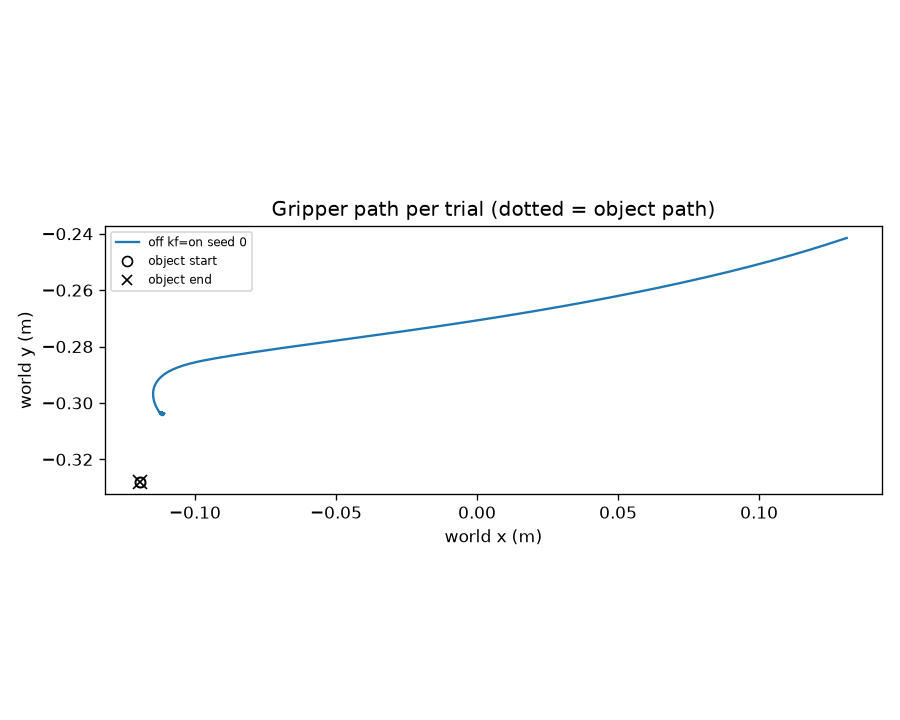
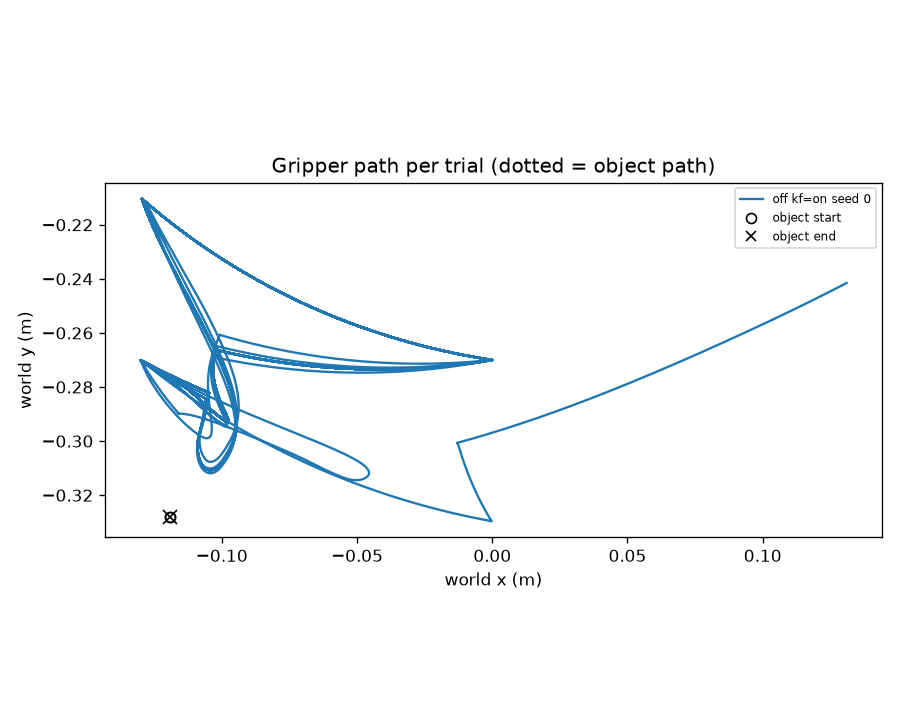
fixed yaw and cam psoition

diff --git a/src/config.py b/src/config.py
@@ -1,4 +1,4 @@
-# src/config.py
+# src/config.py
 """Single source of truth for scene and task constants."""
 
 import numpy as np
@@ -89,9 +89,23 @@ PLACE_EDGE_MARGIN = 0.10   # keep this clear of the far edge so it stays in view
 # pool parking pose: far below the scene; objects are frozen here until spawned
 PARK_POS = [5.0, 5.0, -0.6]
 
-# camera mount 
+# camera mount
+#
+# Origin is gripper/base. Local +z runs DOWN the approach, toward the finger tips,
+# so CAM_POS z is measured downward from the mount face: -0.01 is 10 mm UP towards
+# the wrist, and x = +0.05 puts the camera 50 mm off the tool axis.
+#
+# The camera cannot mount to the wrist itself -- cables and connectors occupy that
+# space -- but this offset is retained. A centred placement was tried at
+# (0, 0, 0), which put the lens level with the top face of the gripper housing and
+# 50 mm inboard of the working offset, and was rejected.
+#
+# MOVED toward the finger tips in two steps: z -0.03 -> -0.01 -> +0.09, 120 mm in
+# total. x, y and the rotation are unchanged. At +0.09 the lens is 90 mm down the
+# approach, level with the gripper housing -- the housing meshes occupy that space,
+# so expect them in view.
 CAM_QUAT = [0.0, 0.707, 0.707, 0.0]
-CAM_POS = [0.05, 0.0, -0.03]
+CAM_POS = [0.05, 0.0, 0.09]
 MESH_QUAT = [0.707, 0.0, 0.0, 0.707]
 MESH_POS = CAM_POS
 
@@ -612,6 +626,22 @@ TOOL_MOUNT_QUAT = (0.7071068, -0.0001, 0.0002, 0.7071068)
 # same swing that showed up in UR_HOME_Q (joint 1 = +1.571, not -0.366) and put
 # the table at -y. The link lengths were already right; only the heading was not.
 UR_ROOT_YAW = 3.141592653589793
+
+# R_DOWN is defined further up, in the MODEL frame, because that is where it was
+# authored. Everything downstream -- servo.desired_pose, pick, solve_ik -- targets
+# the CELL frame, and the model was rotated onto that frame by UR_ROOT_YAW. Left
+# as written, R_DOWN put the tool's +x on world +x while UR_HOME_Q has it on
+# world -x, so the first orientation command spun the wrist 180 deg and swung the
+# off-axis camera across the arm.
+#
+# Re-expressed here, once, so there is a single convention: this constant now
+# agrees with the rotated model and with UR_HOME_Q. With UR_ROOT_YAW = pi,
+# [[1,0,0],[0,-1,0],[0,0,-1]] becomes [[-1,0,0],[0,1,0],[0,0,-1]] -- the approach
+# still points down, the azimuth flips by half a turn.
+_c_yaw, _s_yaw = np.cos(UR_ROOT_YAW), np.sin(UR_ROOT_YAW)
+R_DOWN = np.array([[_c_yaw, -_s_yaw, 0.0],
+                   [_s_yaw, _c_yaw, 0.0],
+                   [0.0, 0.0, 1.0]]) @ R_DOWN
 
 # ---- camera mount: WRIST (eye-in-hand) ------------------------------------
 # Transform gripper base -> D435i optical frame. The printed clamp goes on the

diff --git a/src/world_real.py b/src/world_real.py
@@ -1,4 +1,4 @@
-"""RealSense-backed world: the hardware implementation of the ObjectWorld seam.
+"""RealSense-backed world: the hardware implementation of the ObjectWorld seam.
 
 WHAT THIS IS FOR
 ----------------
@@ -42,6 +42,7 @@ import numpy as np
 
 from src.config import (
     SELF_FILTER, SURFACE_BAND, DEPTH_MAX, TABLE_HEIGHT,
+    TABLE_CENTRE, TABLE_HALF,
     OBJECT_HEIGHT,
 )
 from src.world import ObjectWorld, TargetView
@@ -276,9 +277,23 @@ class DepthWorld(ObjectWorld):
         near = np.sqrt(ax[None, :] ** 2 + ay[:, None] ** 2 + 1.0) * z
         wz = ((R_wc[2, 0] * ax)[None, :] + (R_wc[2, 1] * ay)[:, None]
               - R_wc[2, 2]) * z + p_cam_w[2]
+        # World x and y the same way, for the tabletop footprint test below.
+        wx = ((R_wc[0, 0] * ax)[None, :] + (R_wc[0, 1] * ay)[:, None]
+              - R_wc[0, 2]) * z + p_cam_w[0]
+        wy = ((R_wc[1, 0] * ax)[None, :] + (R_wc[1, 1] * ay)[:, None]
+              - R_wc[1, 2]) * z + p_cam_w[1]
+
+        # The TABLE FOOTPRINT is part of the validity rule, not just the height.
+        # Anything outside the measured tabletop cannot be a graspable object: the
+        # robot base and column, the arm itself, the bench edge, the floor. Height
+        # alone let those through whenever they happened to sit above the surface,
+        # which is why the base kept appearing in the cluster set.
+        on_table = ((np.abs(wx - TABLE_CENTRE[0]) <= TABLE_HALF[0])
+                    & (np.abs(wy - TABLE_CENTRE[1]) <= TABLE_HALF[1]))
 
         keep = (np.isfinite(z) & (z > 0.0) & (near > SELF_FILTER)
-                & (near < DEPTH_MAX) & (wz > TABLE_HEIGHT + SURFACE_BAND))
+                & (near < DEPTH_MAX) & (wz > TABLE_HEIGHT + SURFACE_BAND)
+                & on_table)
         if not keep.any():
             return np.zeros((0, 3))
 

diff --git a/src/perception.py b/src/perception.py
@@ -6,7 +6,8 @@ import numpy as np
 
 from src.config import (
     SELF_FILTER, SURFACE_BAND, DEPTH_MAX,
-    TABLE_HEIGHT, OBJECT_HEIGHT, OBJECT_SIZE,
+    TABLE_HEIGHT, TABLE_CENTRE, TABLE_HALF,
+    OBJECT_HEIGHT, OBJECT_SIZE,
 )
 
 
@@ -118,12 +119,25 @@ def rotation_with_yaw(yaw_deg, R_down):
 
 # SENSING
 def _filter_points(model, data, camera, cam_id):
-    # Shared point filter: world points above the surface, in range, finite.
+    # Shared point filter: world points above the surface, in range, finite, and
+    # INSIDE THE TABLE FOOTPRINT.
+    #
     # The keep-mask runs in image space, so only the surviving pixels are ever
-    # lifted to 3D (see RGBDCamera.surface_points).
+    # lifted to 3D (see RGBDCamera.surface_points). The footprint test happens on
+    # the lifted points because surface_points is the generic sensor and does not
+    # know the cell -- the world does.
+    #
+    # Height alone was not enough: the robot base, the column and the arm all sit
+    # above the surface, so any that came into view were clustered as objects.
+    # Nothing outside the measured tabletop can be a graspable object.
     depth = camera.capture_depth(data)
-    return camera.surface_points(depth, data, SELF_FILTER, DEPTH_MAX,
-                                 TABLE_HEIGHT + SURFACE_BAND)
+    pts = camera.surface_points(depth, data, SELF_FILTER, DEPTH_MAX,
+                                TABLE_HEIGHT + SURFACE_BAND)
+    if len(pts) == 0:
+        return pts
+    on_table = ((np.abs(pts[:, 0] - TABLE_CENTRE[0]) <= TABLE_HALF[0])
+                & (np.abs(pts[:, 1] - TABLE_CENTRE[1]) <= TABLE_HALF[1]))
+    return pts[on_table]
 
 
 def _span_ok(span):

diff --git a/src/model_loader.py b/src/model_loader.py
@@ -141,19 +141,17 @@ def load_robot_model(with_calibration_board=False, arm_model=None,
     floor_geom.size = [10, 10, 0.1]
     floor_geom.pos = [0, 0, min(_FLOOR_Z, TABLE_HEIGHT - TABLE_THICK)]
 
-    # 5. The bench, from the lab measurements.
+    # 5. The bench, exactly as measured on the cell.
     #
     #    MEASURED (2026-10-23): a 440 x 300 mm working rectangle with its long
     #    edge walked as (-0.2200, -0.4200) -> (+0.2200, -0.4200), so the centre is
     #    150 mm in from that edge: TABLE_CENTRE = [0.0, -0.270], TABLE_HALF =
     #    [0.22, 0.15]. Top face exactly on TABLE_HEIGHT.
     #
-    #    The rectangle is the WORKING AREA, not the whole bench: the base sits at
-    #    y = 0, which is 120 mm beyond the measured back edge. The arm is bolted to
-    #    the same bench, so the slab is extended under the base -- otherwise the
-    #    robot stands on air beside its own table, which is what looked wrong.
-    _bench_front = TABLE_CENTRE[1] - TABLE_HALF[1]          # -0.420
-    _bench_back = max(TABLE_CENTRE[1] + TABLE_HALF[1], 0.120)   # past the base
+    #    Nothing is extended or clamped: the slab is that rectangle and no more,
+    #    spanning x -0.220..+0.220 and y -0.420..-0.120.
+    _bench_front = TABLE_CENTRE[1] - TABLE_HALF[1]
+    _bench_back = TABLE_CENTRE[1] + TABLE_HALF[1]
     _bench_cy = 0.5 * (_bench_front + _bench_back)
     _bench_hy = 0.5 * (_bench_back - _bench_front)
     _bench_top = TABLE_HEIGHT - TABLE_THICK                 # underside of the slab
